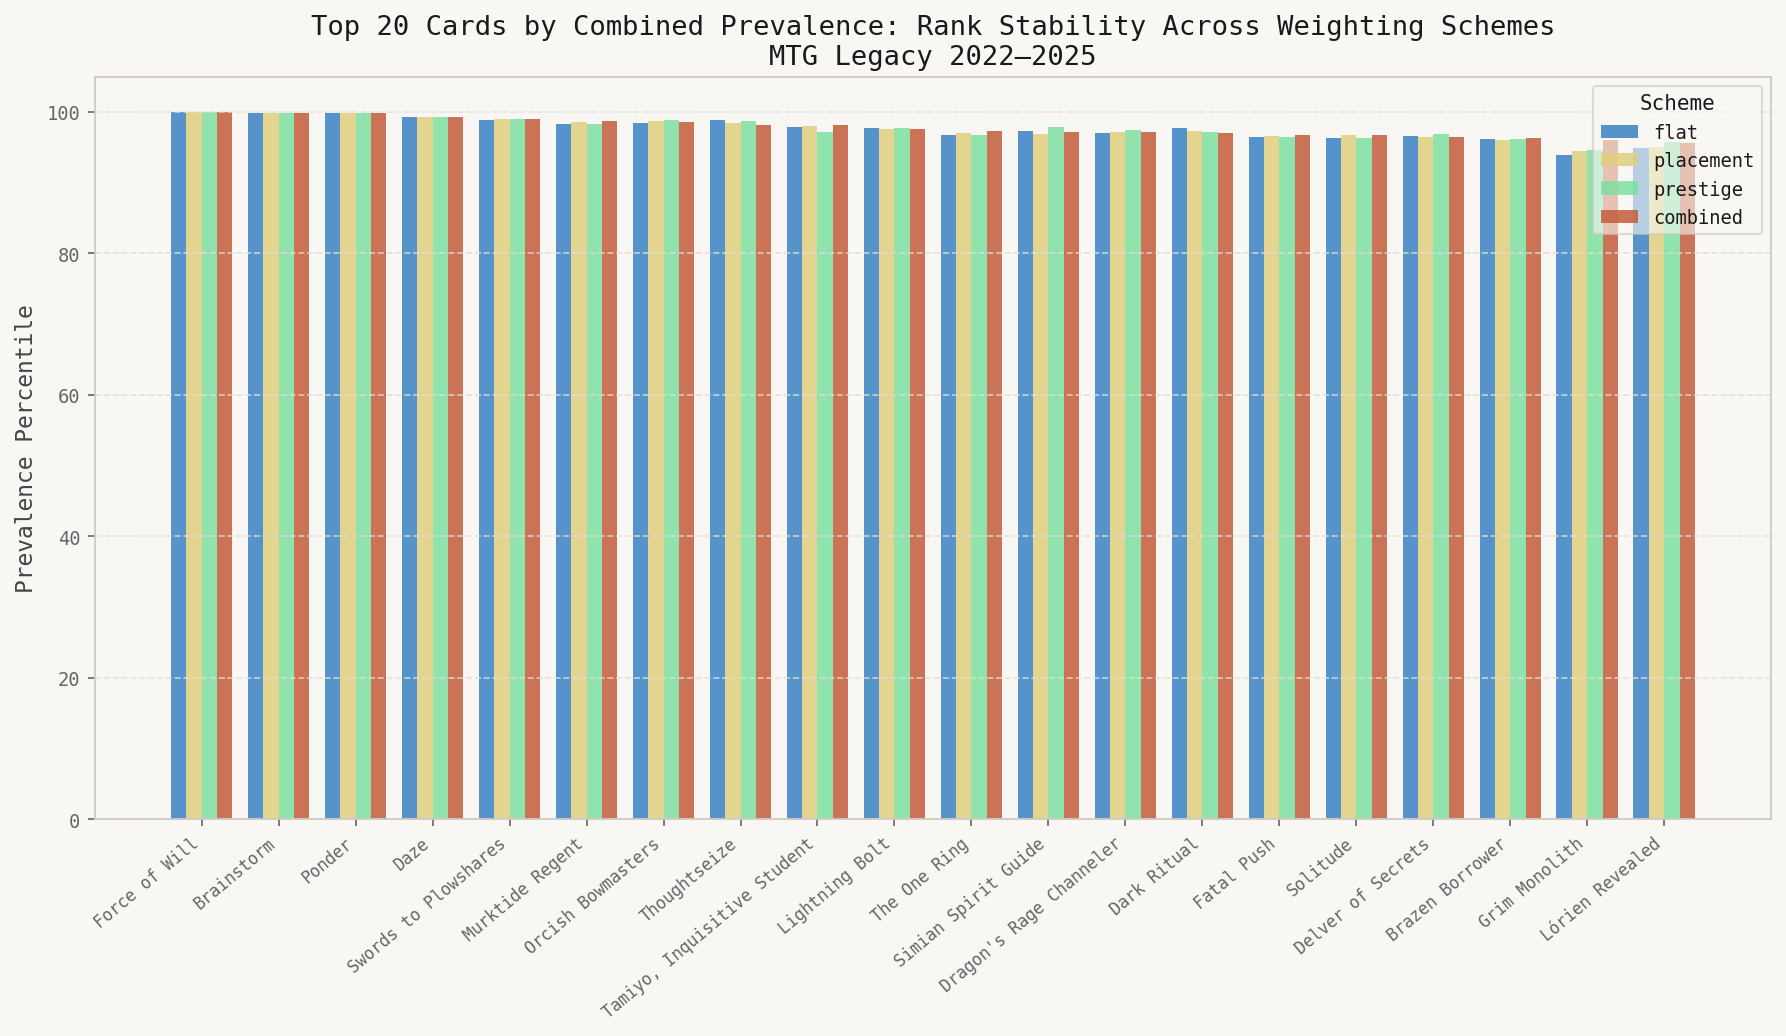
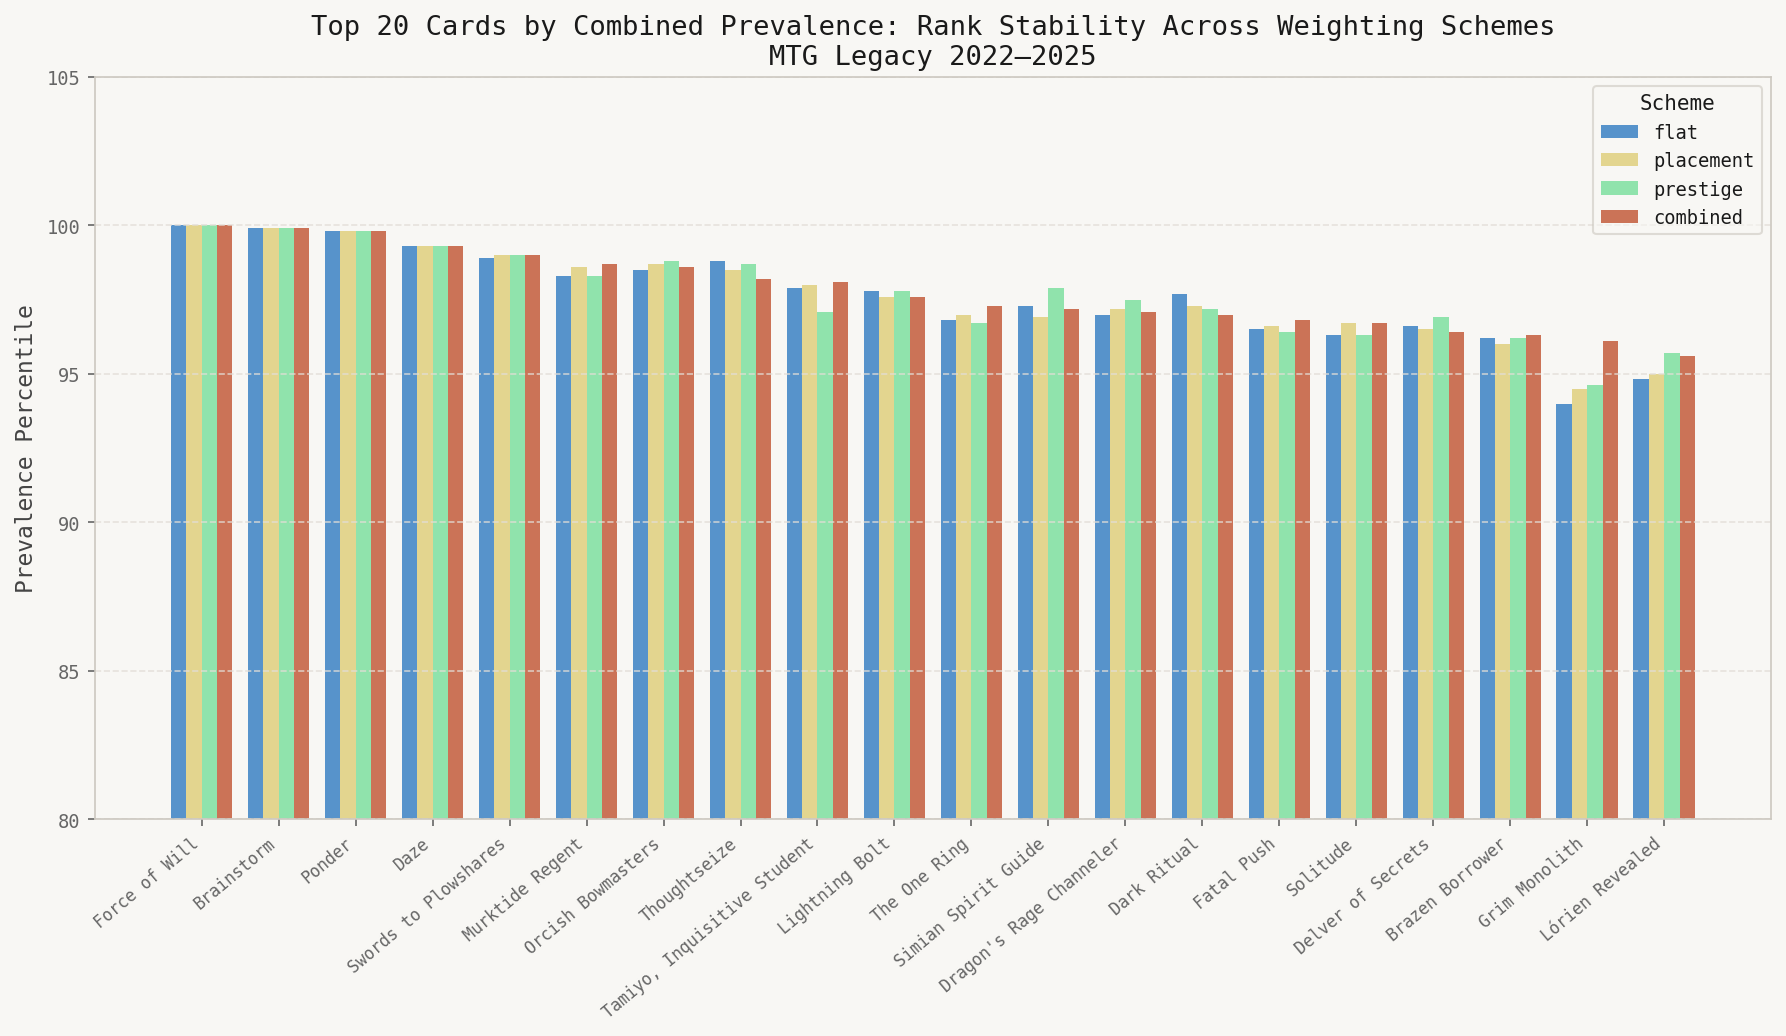
Truncate weighting sensitivity chart Y axis to 80–105
Emphasizes the variance between weighting schemes by removing the
large empty space below 80th percentile.

diff --git a/analysis/mtg-legacy-tournament/analyze.py b/analysis/mtg-legacy-tournament/analyze.py
@@ -375,7 +375,7 @@ def chart_weighting_sensitivity(df: pd.DataFrame) -> None:
     ax.set_title("Top 20 Cards by Combined Prevalence: Rank Stability Across Weighting Schemes\nMTG Legacy 2022–2025")
     ax.legend(title="Scheme")
     ax.grid(True, axis="y")
-    ax.set_ylim(0, 105)
+    ax.set_ylim(80, 105)
 
     plt.tight_layout()
     out = IMAGES_DIR / "weighting_sensitivity.png"
